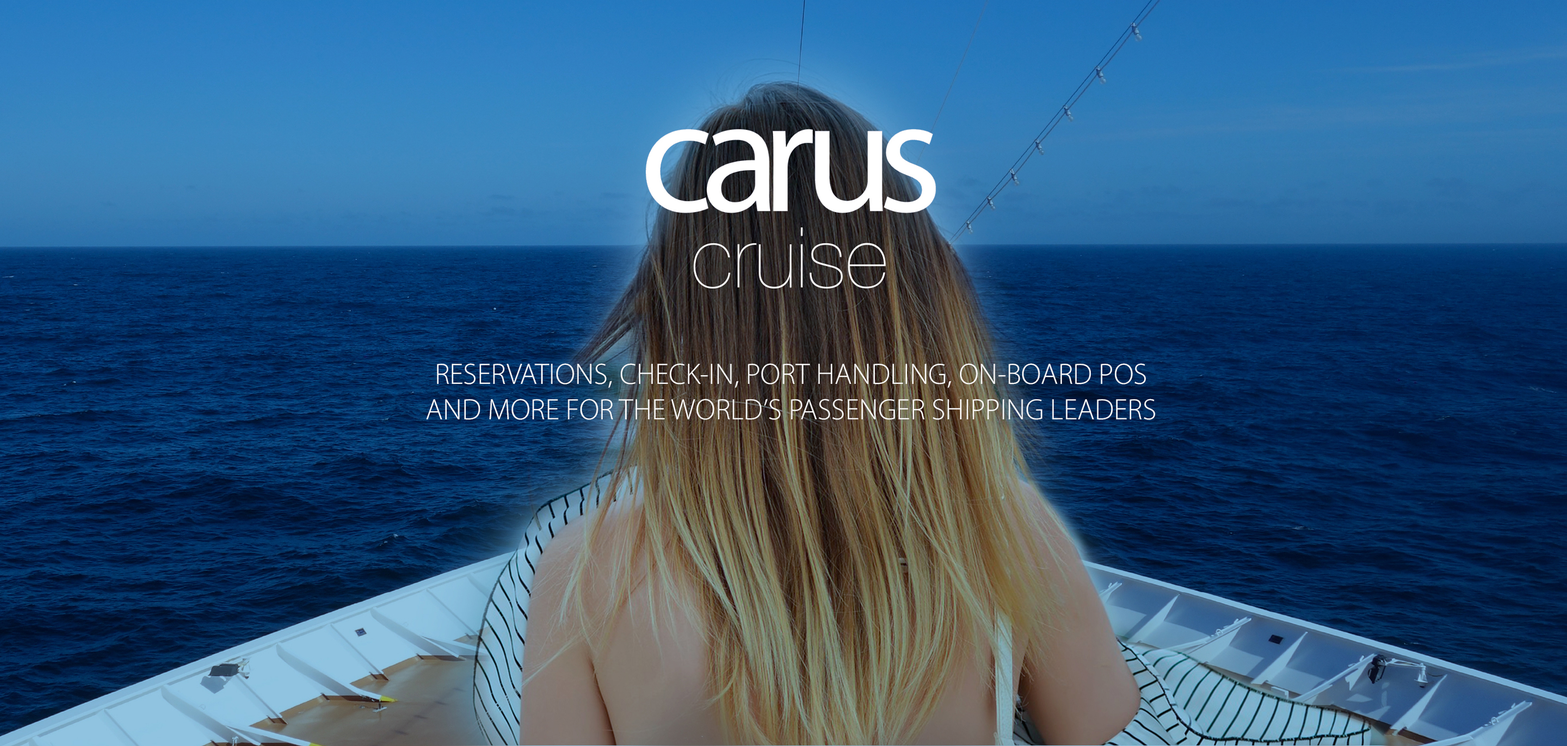
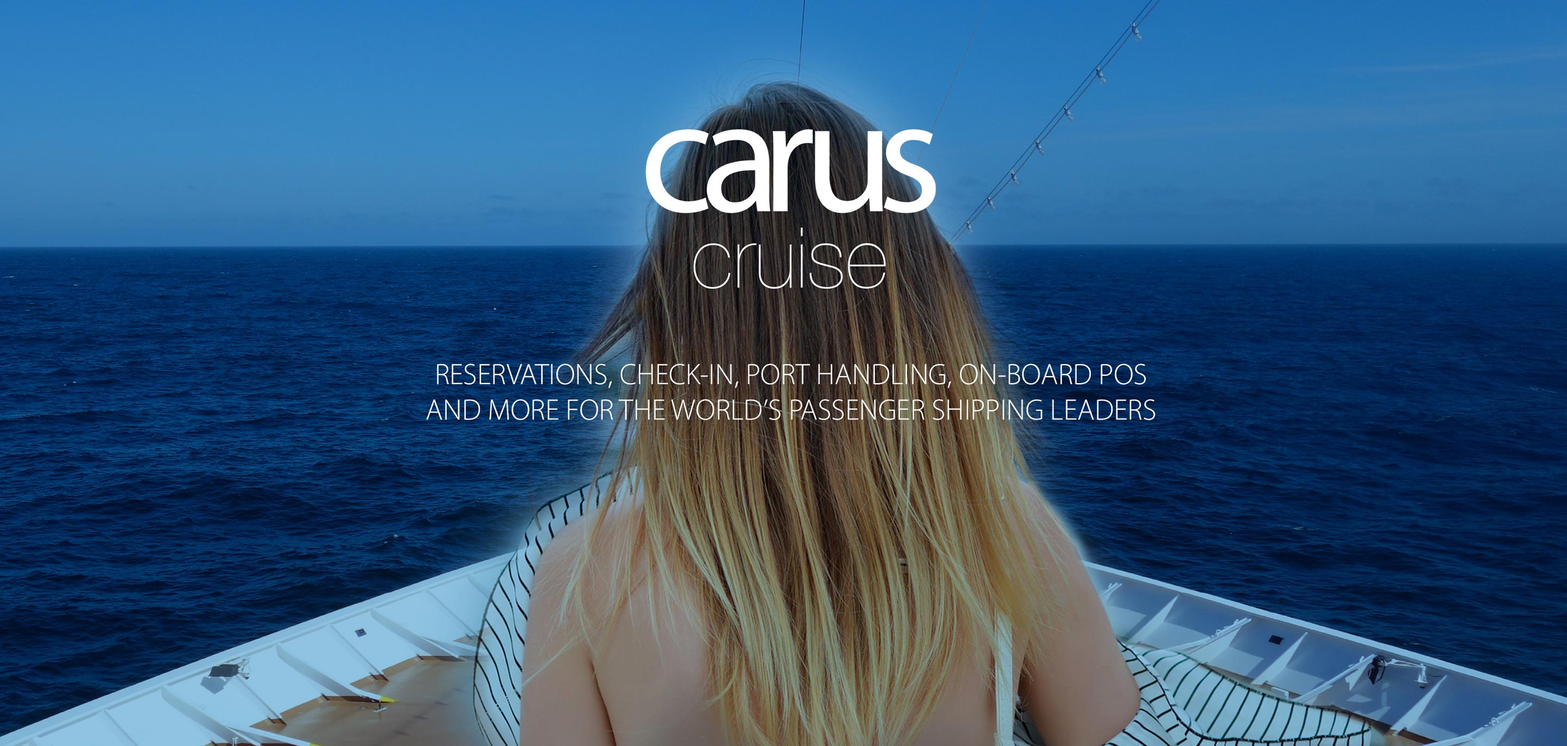
FAV AND MORE STUFF

diff --git a/index.html b/index.html
@@ -2,7 +2,7 @@
 
 <html>
 	<head>
-		<title>Spectral by HTML5 UP</title>
+		<title>CarusFerry</title>
 		<meta charset="utf-8" />
 		<meta name="viewport" content="width=device-width, initial-scale=1" />
 		<link rel="stylesheet" href="https://maxcdn.bootstrapcdn.com/bootstrap/3.3.7/css/bootstrap.min.css" />
@@ -10,6 +10,17 @@
 		<link rel="stylesheet" href="assets/css/main.css" />
 		<!--[if lte IE 8]><link rel="stylesheet" href="assets/css/ie8.css" /><![endif]-->
 		<!--[if lte IE 9]><link rel="stylesheet" href="assets/css/ie9.css" /><![endif]-->
+
+		<!-- FAV ICON -->
+		<link rel="apple-touch-icon" sizes="152x152" href="fav/apple-touch-icon.png">
+		<link rel="icon" type="image/png" sizes="32x32" href="fav/favicon-32x32.png">
+		<link rel="icon" type="image/png" sizes="16x16" href="fav/favicon-16x16.png">
+		<link rel="manifest" href="fav/site.webmanifest">
+		<link rel="mask-icon" href="fav/safari-pinned-tab.svg" color="#5bbad5">
+		<meta name="msapplication-TileColor" content="#da532c">
+		<meta name="theme-color" content="#ffffff">
+
+
 	</head>
 	<body class="landing">
 

diff --git a/assets/css/main.css b/assets/css/main.css
@@ -3974,6 +3974,11 @@
 
 /* FOTO BANNER */
 
+#one {
+	vertical-align: middle !important;
+}
+
 #one img{
 	width: 100%;
+	vertical-align: middle;
 }
